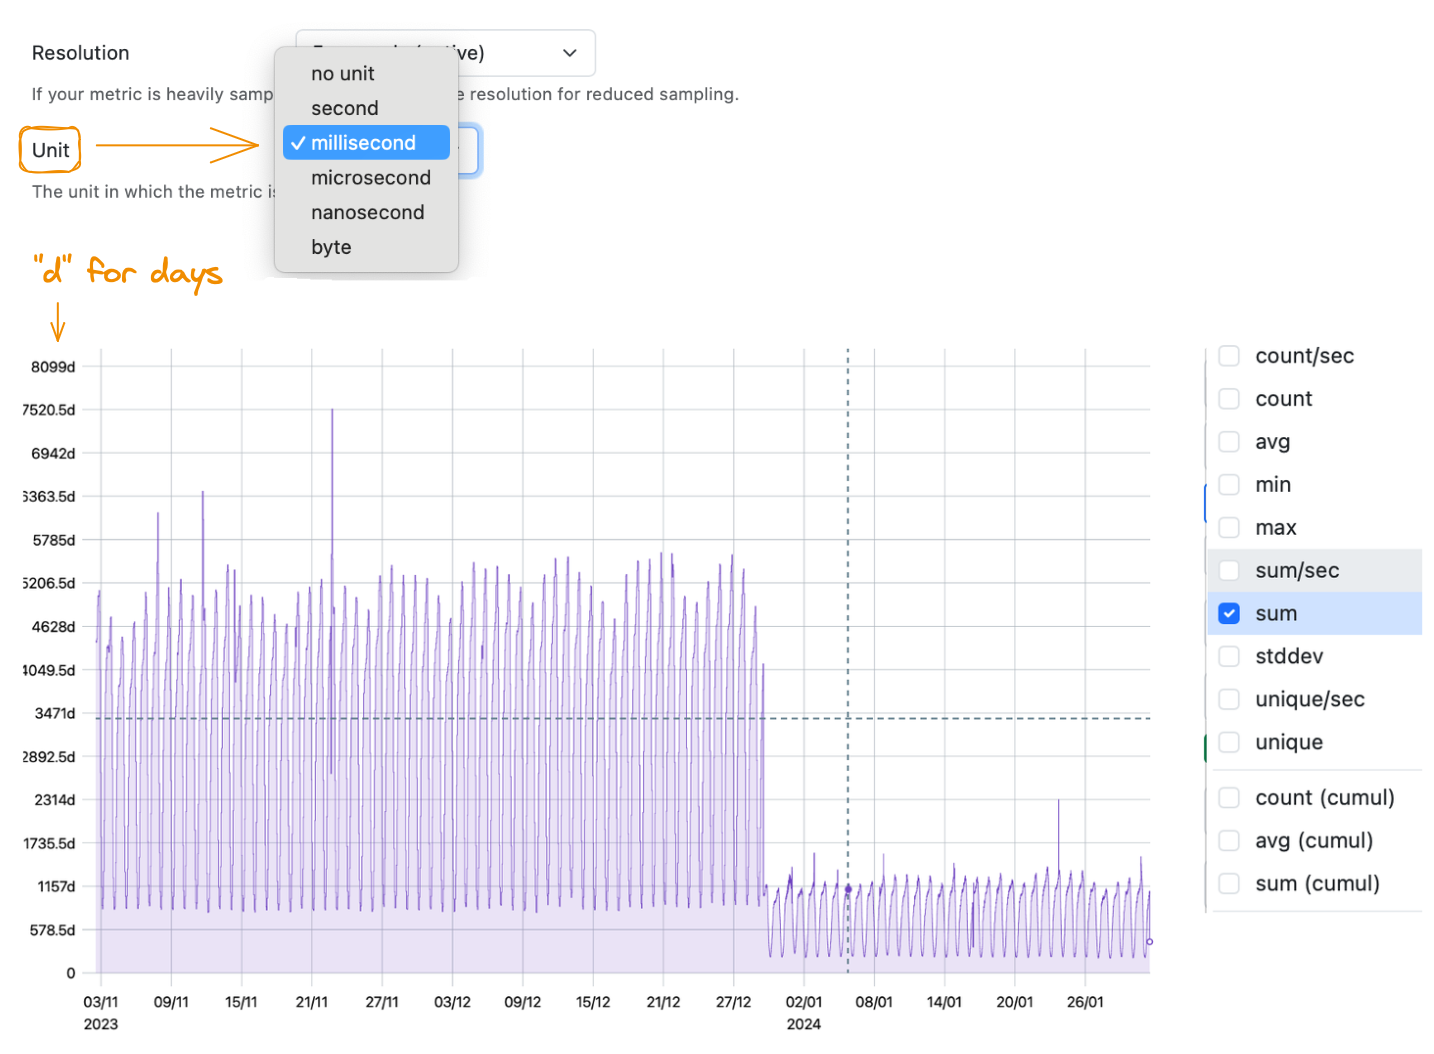
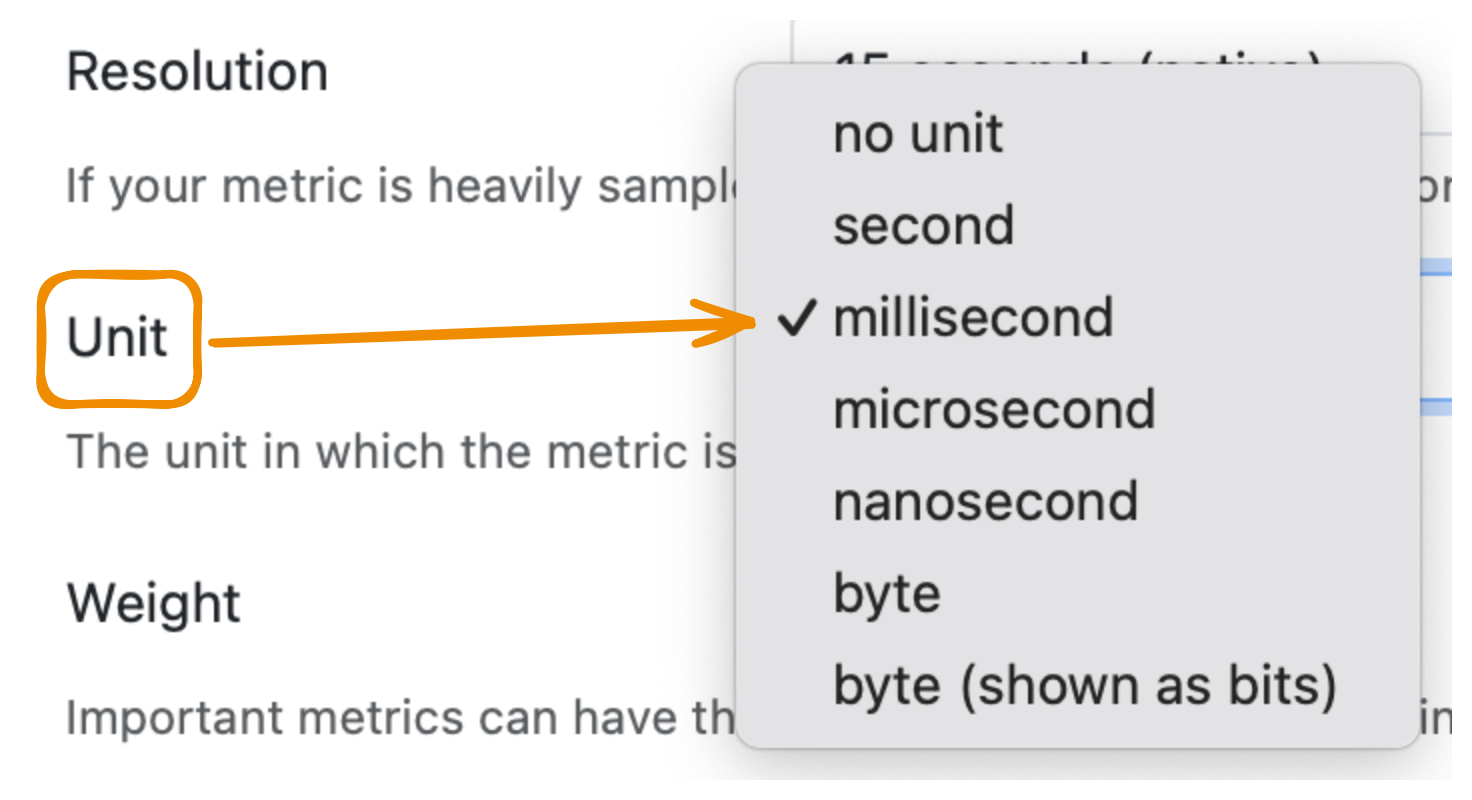
Updated info on Markdown formatting, non-native resolution and bytes shown as bits

diff --git a/website/i18n/ru/docusaurus-plugin-content-docs/current/guides/edit-metrics.md b/website/i18n/ru/docusaurus-plugin-content-docs/current/guides/edit-metrics.md
@@ -60,13 +60,13 @@ import DraftTags from '../img/draft-tags.png'
 
 ## Описание (description)
 
-Метрику можно дополнить описанием в одну или несколько строк — оно отобразится в интерфейсе. Форматирование пока не 
-поддерживается.
+Метрику можно дополнить описанием в одну или несколько строк — оно отобразится в интерфейсе.
+В описаниях можно использовать [стандартную разметку Markdown](https://commonmark.org/help/).
 
 <img src={Description} width="800"/>
 
-[Название графика](view-graph.md#2--название-и-описание-графика) можно отредактировать на странице просмотра графика — оно 
-отобразится и на дашборде. При этом название исходной метрики не меняется. 
+[Название и описание графика](view-graph.md#2--название-и-описание-графика) можно отредактировать на странице просмотра 
+графика — они отобразятся и на дашборде. При этом название исходной метрики не меняется. 
 [Переименовать саму метрику нельзя](create-metric.md#можно-ли-переименовать-метрику).
 
 ## Тип метрики (aggregation)
@@ -117,10 +117,6 @@ import DraftTags from '../img/draft-tags.png'
 
 <img src={ResolutionEdit} width="400"/>
 
-Разрешение, равное 1, 5, 15 или 60 секундам, помечено как "нативное". Рекомендуем использовать эти значения, чтобы 
-избежать дрожания на графике (они соответствуют уровням детализации (LOD) в интерфейсе). Узнайте больше о 
-[разрешении](../overview/concepts.md#разрешение).
-
 Пользовательское разрешение отображается рядом с названием метрики:
 
 <img src={ResolutionView} width="600"/>
@@ -131,6 +127,8 @@ import DraftTags from '../img/draft-tags.png'
 вы не сможете посмотреть посекундные данные, если разрешение равно 5 секундам.
 :::
 
+Узнайте больше о [разрешении](../overview/concepts.md#разрешение).
+
 ## Единицы измерения (unit)
 
 Для _value_-метрики можно указать единицы измерения. Они появятся на подписи к оси Y.
@@ -138,7 +136,10 @@ import DraftTags from '../img/draft-tags.png'
 Например, если вы установите _milliseconds_ (миллисекунды) для метрики, на оси Y можно будет увидеть секунды, минуты 
 и даже дни:
 
-<img src={Milliseconds} width="900"/>
+<img src={Milliseconds} width="400"/>
+
+Обратите внимание, что опция _«byte (shown as bits)»_ означает, что вы отправляете в StatsHouse байты, но для 
+отображения на оси Y в UI они конвертируются в биты. Эта опция бывает полезна для тех, кто работает с сетью.
 
 :::note
 Если вы просматриваете метрику-счётчик (_counter_) или выбираете статистики _count_ и _count/sec_, не 

diff --git a/website/docs/guides/edit-metrics.md b/website/docs/guides/edit-metrics.md
@@ -59,11 +59,12 @@ Then scroll back to the top of the page to view your metric with the changes app
 
 ## Description
 
-Add a metric description on one or multiple lines to show in the UI. No formatting is supported.
+Add a metric description on one or multiple lines to show in the UI. Feel free to use the [standard Markdown formatting](https://commonmark.org/help/) for descriptions.
 
 <img src={Description} width="800"/>
 
-You can [edit the graph name](view-graph.md#2--graph-name-and-description) to customize the look of the dashboard or the graph view 
+You can [edit the graph name or description](view-graph.md#2--graph-name-and-description) to customize the look of the 
+dashboard or the graph view 
 without changing the name of the metric itself. You [cannot rename a metric](create-metric.md#can-i-rename-a-metric).
 
 ## Aggregation
@@ -115,10 +116,6 @@ per 15 seconds instead of sending per-second data:
 
 <img src={ResolutionEdit} width="400"/>
 
-Some resolution levels are marked as "native": 1, 5, 15, 60 seconds. They correspond to levels of details (LOD) 
-in the UI, so we recommend using them to avoid jitter on a graph. See more about metric 
-[resolution](../overview/concepts.md#resolution).
-
 You see custom resolution near the metric name in a graph view:
 
 <img src={ResolutionView} width="600"/>
@@ -130,6 +127,8 @@ the smaller [aggregation interval](view-graph.md#6--aggregation-interval):
 you cannot show per-second data if the resolution is set to 5 seconds.
 :::
 
+See more about metric [resolution](../overview/concepts.md#resolution).
+
 ## Unit
 
 Set up measurement units for the _value_ metric data you send to StatsHouse. 
@@ -138,7 +137,10 @@ With this unit information, StatsHouse generates the Y-axis label for a graph.
 For example, if you set up _milliseconds_ for your metric, you can see _seconds_, _minutes_, or even _days_ as the 
 Y-axis label on the graph:
 
-<img src={Milliseconds} width="900"/>
+<img src={Milliseconds} width="400"/>
+
+Please note that the _«byte (shown as bits)»_ option means that you send bytes to StatsHouse, but they are converted to 
+bits to appear on the Y-axis in the UI. It may be useful for those who work with network metrics.
 
 :::note
 If you have a _counter_ metric or view the _count_ and _count/sec_ statistics, you should not set a particular 
